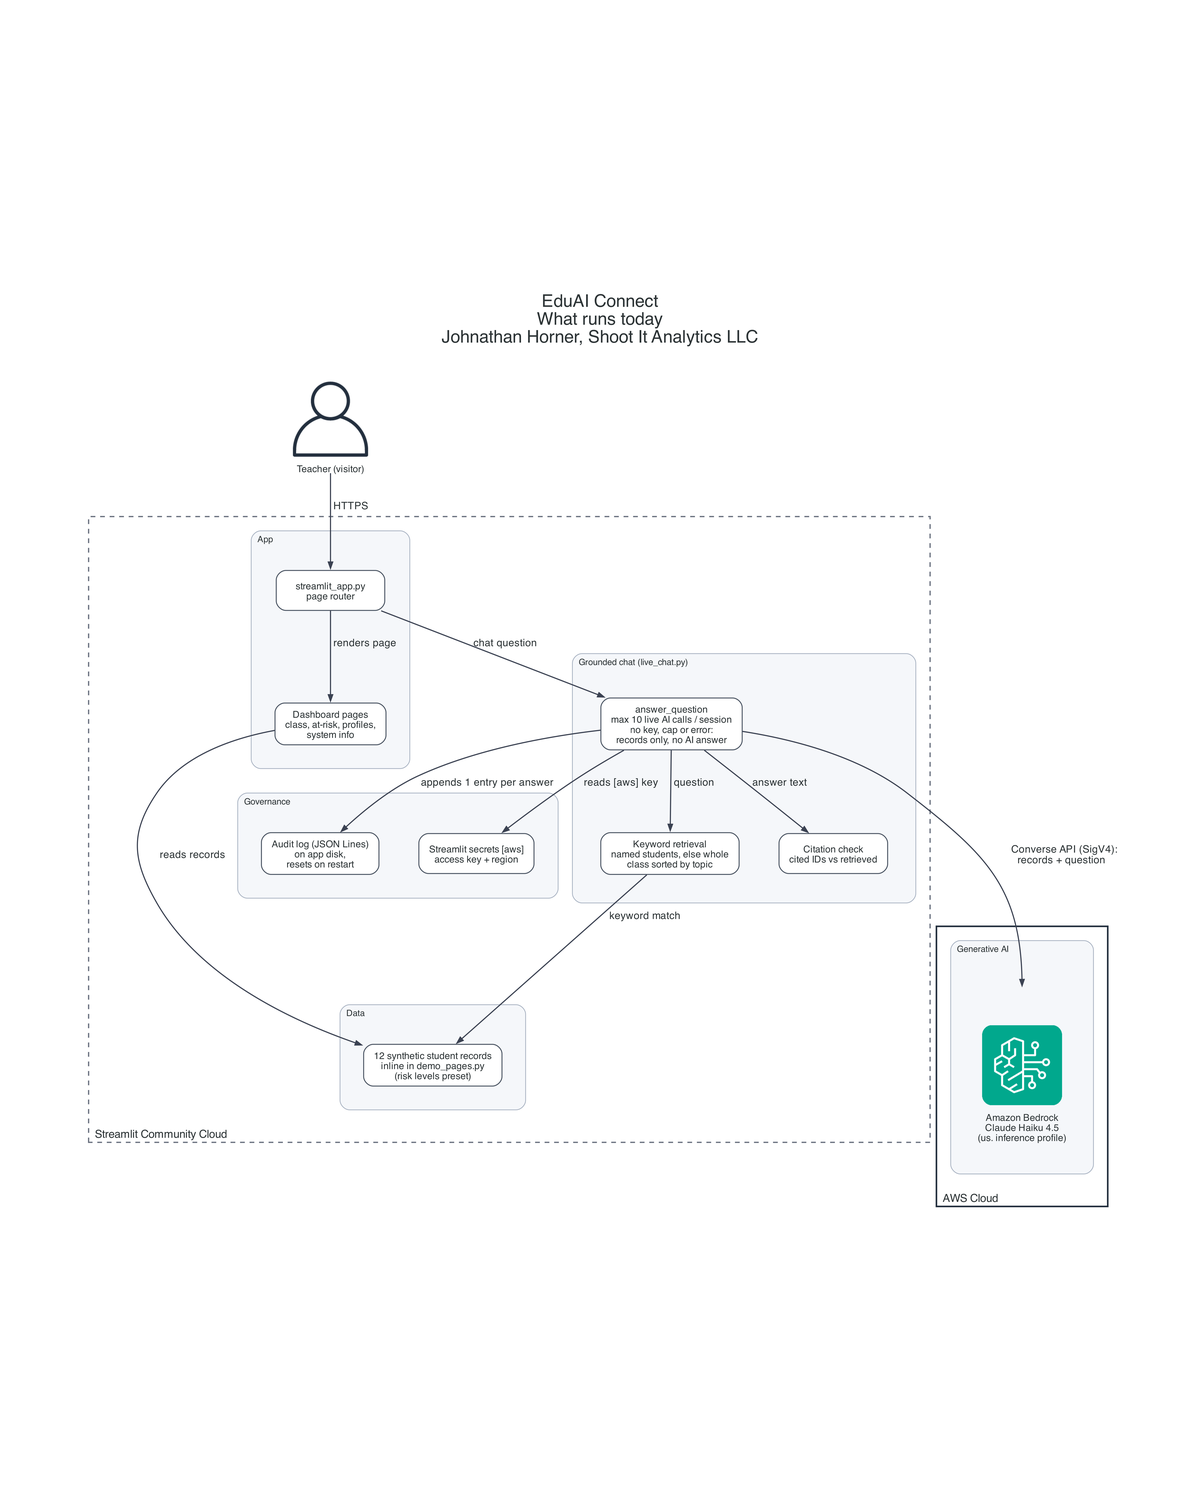
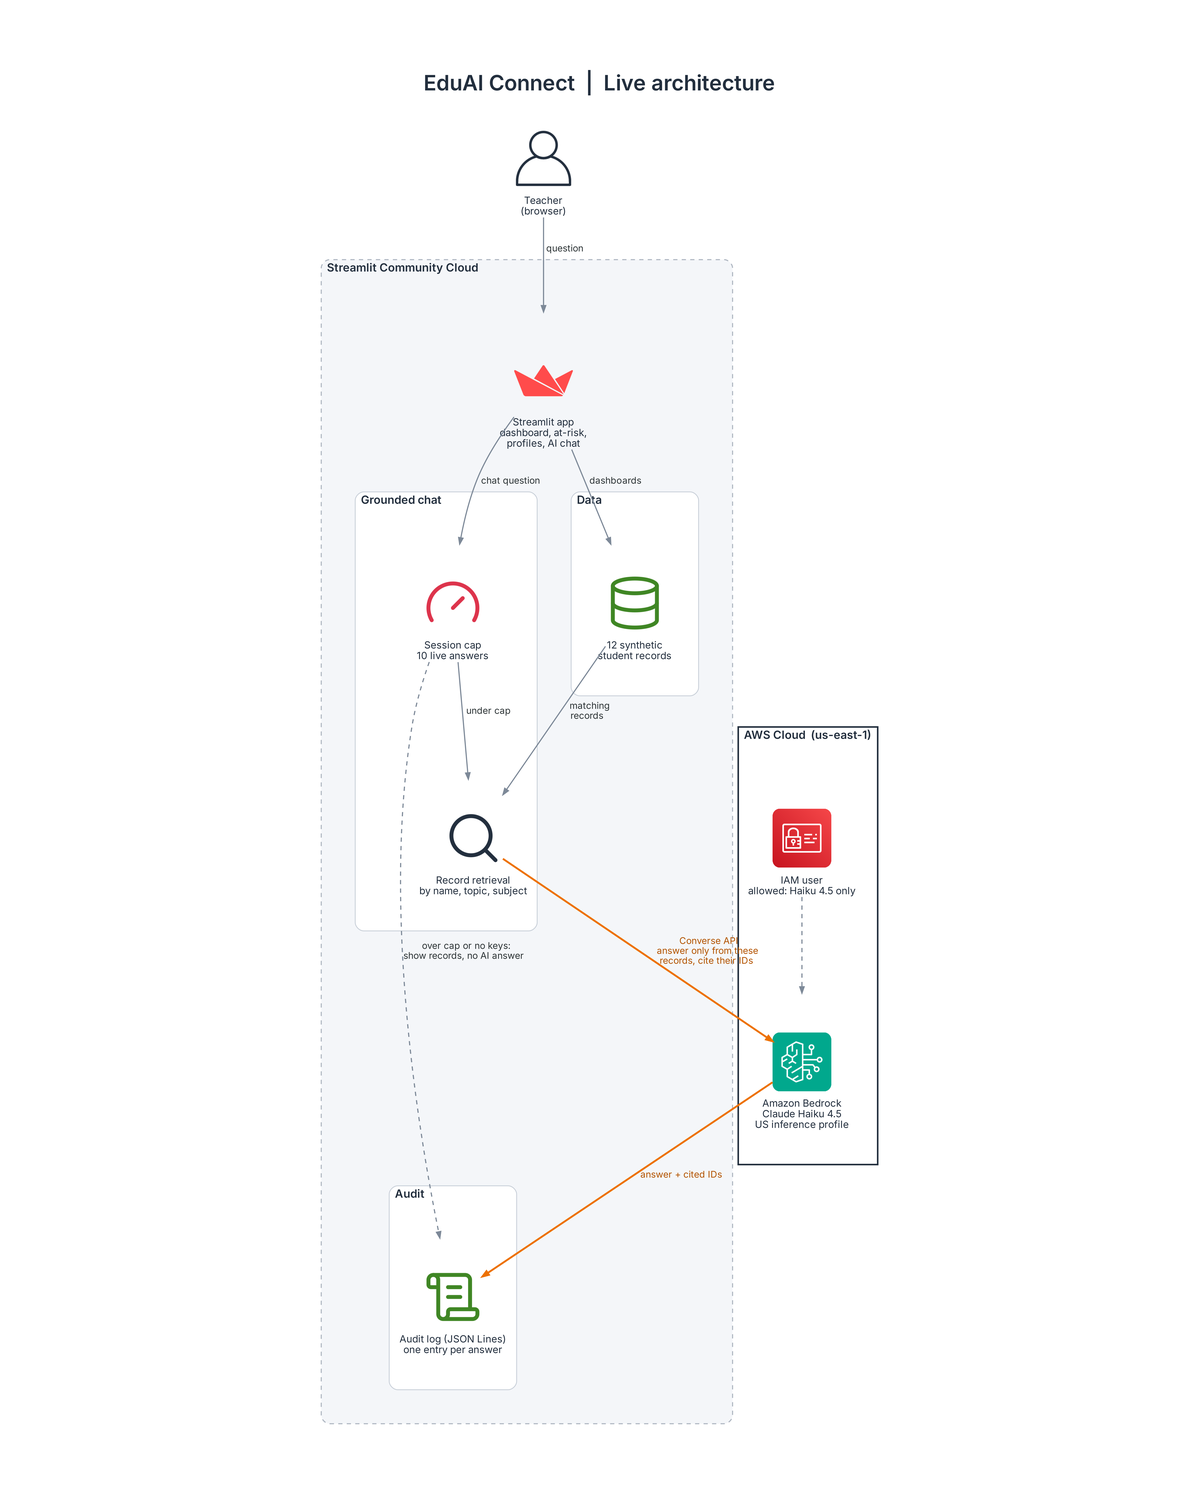
Replace architecture diagrams

diff --git a/docs/architecture/architecture.py b/docs/architecture/architecture.py
@@ -1,42 +1,40 @@
-"""EduAI Connect: what runs today on Streamlit Community Cloud.
+"""EduAI Connect: what runs today (live on Streamlit Community Cloud)."""
+import sys
+from pathlib import Path
 
-Traced from origin/main: streamlit_app/streamlit_app.py (entry point), demo_pages.py, live_chat.py.
-src/ (LangGraph agents, FAISS RAG, FastAPI), mcp_server.py and streamlit_app/app.py are local-only
-and are not imported by the hosted app, so they are not drawn.
-"""
-from diagrams.aws.general import User
+sys.path.insert(0, str(Path(__file__).resolve().parent))
+from diagrams import Diagram
 from diagrams.aws.ml import Bedrock
+from diagrams.aws.security import IAM
+from diagrams.onprem.client import User
 
-from archstyle import arch, aws_cloud, box, e, layer, linkedin, outside
+from style import EDGE, GRAPH, NODE, area, flow, icon, primary, soft
 
-OUT = "architecture"
-with arch("EduAI Connect", "What runs today", OUT):
-    teacher = User("Teacher (visitor)")
-    with outside("Streamlit Community Cloud"):
-        with layer("App"):
-            router = box("streamlit_app.py\npage router")
-            pages = box("Dashboard pages\nclass, at-risk, profiles,\nsystem info")
-        with layer("Grounded chat (live_chat.py)", margin=36):
-            chat = box("answer_question\nmax 10 live AI calls / session\nno key, cap or error:\nrecords only, no AI answer")
-            retr = box("Keyword retrieval\nnamed students, else whole\nclass sorted by topic")
-            cite = box("Citation check\ncited IDs vs retrieved")
-        with layer("Data"):
-            records = box("12 synthetic student records\ninline in demo_pages.py\n(risk levels preset)")
-        with layer("Governance"):
-            audit = box("Audit log (JSON Lines)\non app disk,\nresets on restart")
-            secrets = box("Streamlit secrets [aws]\naccess key + region")
-    with aws_cloud():
-        with layer("Generative AI", margin=40):
-            llm = Bedrock("Amazon Bedrock\nClaude Haiku 4.5\n(us. inference profile)")
+with Diagram("EduAI Connect  |  Live architecture",
+             filename=str(Path(__file__).with_name("architecture")), outformat="png", direction="TB",
+             show=False, graph_attr=GRAPH, node_attr=NODE, edge_attr=EDGE):
+    user = User("Teacher\n(browser)")
 
-    teacher >> e("HTTPS") >> router
-    router >> e("renders page") >> pages
-    router >> e("chat question") >> chat
-    pages >> e("reads records") >> records
-    chat >> e("question") >> retr
-    retr >> e("keyword match") >> records
-    chat >> e("reads [aws] key") >> secrets
-    chat >> e("Converse API (SigV4):\nrecords + question", minlen="2", headport="n") >> llm
-    chat >> e("answer text") >> cite
-    chat >> e("appends 1 entry per answer") >> audit
-linkedin(OUT)
+    with area("Streamlit Community Cloud", "host"):
+        app = icon("streamlit", "Streamlit app\ndashboard, at-risk,\nprofiles, AI chat")
+        with area("Data"):
+            records = icon("database-green", "12 synthetic\nstudent records")
+        with area("Grounded chat"):
+            cap = icon("gauge-red", "Session cap\n10 live answers")
+            retrieve = icon("search-ink", "Record retrieval\nby name, topic, subject")
+        with area("Audit"):
+            audit = icon("scroll-text-green", "Audit log (JSON Lines)\none entry per answer")
+
+    with area("AWS Cloud  (us-east-1)", "aws"):
+        iam = IAM("IAM user\nallowed: Haiku 4.5 only")
+        bedrock = Bedrock("Amazon Bedrock\nClaude Haiku 4.5\nUS inference profile")
+
+    user >> flow("question") >> app
+    app >> flow("dashboards") >> records
+    app >> flow("chat question") >> cap
+    cap >> flow("under cap") >> retrieve
+    records >> flow("matching\nrecords") >> retrieve
+    retrieve >> primary("Converse API\nanswer only from these\nrecords, cite their IDs") >> bedrock
+    iam >> soft() >> bedrock
+    bedrock >> primary("answer + cited IDs") >> audit
+    cap >> soft("over cap or no keys:\nshow records, no AI answer") >> audit

diff --git a/docs/architecture/style.py b/docs/architecture/style.py
@@ -1,0 +1,58 @@
+"""Shared look for every portfolio architecture diagram.
+
+Johnathan Horner, Shoot It Analytics LLC.
+Python diagrams library, official AWS icons, white background, top-down, labeled arrows.
+Brand icons: Simple Icons (CC0). Outline icons: Lucide (ISC).
+"""
+from pathlib import Path
+
+from diagrams import Cluster, Edge
+from diagrams.custom import Custom
+
+ICONS = Path(__file__).parent / "icons"
+FONT = "Inter"
+
+INK = "#232F3E"      # AWS squid ink
+ORANGE = "#ED7100"   # primary AI path
+GREY = "#7D8998"
+RED = "#DD344C"
+
+GRAPH = {
+    "dpi": "300", "bgcolor": "white", "fontname": FONT + " SemiBold", "fontsize": "30",
+    "fontcolor": INK, "labelloc": "t", "pad": "0.6", "nodesep": "1.25", "ranksep": "1.05",
+    "splines": "spline", "newrank": "true", "compound": "true",
+}
+NODE = {"fontname": FONT, "fontsize": "14", "fontcolor": INK, "width": "1.15", "height": "1.15",
+        "imagescale": "true", "labelloc": "b"}
+EDGE = {"fontname": FONT, "fontsize": "13", "fontcolor": "#3B4754", "color": GREY, "penwidth": "1.6",
+        "arrowsize": "0.9"}
+
+
+def area(label, kind="layer"):
+    """Cluster styles: 'host' (outer platform), 'aws' (AWS Cloud boundary), 'ext' (outside vendor), 'layer'."""
+    base = {"fontname": FONT + " SemiBold", "fontsize": "16", "fontcolor": INK, "margin": "48",
+            "labeljust": "l", "style": "rounded"}
+    styles = {
+        "host": {"bgcolor": "#F4F6F9", "pencolor": "#AEB6C1", "style": "rounded,dashed", "penwidth": "1.5"},
+        "aws": {"bgcolor": "#FFFFFF", "pencolor": INK, "penwidth": "2.2", "style": "solid"},
+        "ext": {"bgcolor": "#FAF8FD", "pencolor": "#B9A9D6", "style": "rounded,dashed", "penwidth": "1.5"},
+        "layer": {"bgcolor": "#FFFFFF", "pencolor": "#C9D0D9", "penwidth": "1.2"},
+        "plan": {"bgcolor": "#FFFFFF", "pencolor": GREY, "style": "rounded,dashed", "penwidth": "1.5"},
+    }
+    return Cluster(label, graph_attr={**base, **styles[kind]})
+
+
+def icon(name, label):
+    return Custom(label, str(ICONS / f"{name}.png"))
+
+
+def flow(label="", **kw):
+    return Edge(label=f" {label} " if label else "", **kw)
+
+
+def primary(label=""):
+    return flow(label, color=ORANGE, penwidth="2.6", fontcolor="#B35400")
+
+
+def soft(label=""):
+    return flow(label, style="dashed")

diff --git a/docs/architecture/arrow-verification.md b/docs/architecture/arrow-verification.md
@@ -1,37 +1,15 @@
-# EduAI Connect: arrow verification
+# Arrow check
 
-Code read from `origin/main` (commit 17eff960). Paths are repo-relative.
+Every arrow that touches an AWS service, with the official AWS page that confirms it and its direction. Arrows between non-AWS parts (Streamlit, Gemini, SQLite, scikit-learn and so on) were checked against the code only. Links come from docs.aws.amazon.com only.
 
-## Diagram 1: `docs/architecture/architecture.png` (What runs today)
+## architecture.png (live)
 
-| From | To | Action | Code evidence | AWS doc |
-|---|---|---|---|---|
-| Teacher (visitor) | streamlit_app.py page router | HTTPS page request to the Streamlit Community Cloud app | `streamlit_app/streamlit_app.py:1-4` (entry point docstring), `:119-158` (sidebar radio + router); README.md:11 (live URL) | N/A (not AWS) |
-| streamlit_app.py | Dashboard pages | renders the selected page | `streamlit_app/streamlit_app.py:149-158` calls `page_class_dashboard`, `page_at_risk`, `page_student_profiles`, `page_system_info` from `demo_pages.py` | N/A (not AWS) |
-| streamlit_app.py | answer_question (live_chat.py) | chat question | `streamlit_app/streamlit_app.py:155-156` -> `demo_pages.py:344-378` (`page_ai_chat` calls `answer_question(question, STUDENTS, st.session_state, settings=settings)` at :378) | N/A (not AWS) |
-| Dashboard pages | 12 synthetic student records | reads records | `streamlit_app/demo_pages.py:26-99` (`STUDENTS` list, 12 dicts with preset `risk`/`risk_score`), `:117-133` (`_students_df` iterates `STUDENTS`) | N/A (not AWS) |
-| answer_question | Keyword retrieval | question | `streamlit_app/live_chat.py:197` (`records, chosen_by = retrieve(question, students)`) | N/A (not AWS) |
-| Keyword retrieval | 12 synthetic student records | keyword match (named students, else whole class sorted by topic/subject, optional grade filter) | `streamlit_app/live_chat.py:76-98`; records passed from `demo_pages.py:378` | N/A (not AWS) |
-| answer_question | Streamlit secrets [aws] | reads access key ID, secret key, region (never logged or displayed) | `streamlit_app/live_chat.py:120-135` (`st.secrets["aws"]`, `access_key_id`, `secret_access_key`, `region`; env opt-in `EDUAI_ALLOW_DEFAULT_CREDENTIALS=1` for local only) | N/A (not AWS; Streamlit Cloud secrets store) |
-| answer_question | Amazon Bedrock, Claude Haiku 4.5 (us. inference profile) | boto3 `bedrock-runtime` client calls `converse(modelId="us.anthropic.claude-haiku-4-5-20251001-v1:0", system, messages, inferenceConfig={maxTokens:400, temperature:0})`; request is SigV4-signed by boto3 with the [aws] key; retrieved records + question are sent | `streamlit_app/live_chat.py:35` (MODEL_ID), `:39` (MAX_OUTPUT_TOKENS=400), `:138-141` (`boto3.client("bedrock-runtime", **settings)`), `:144-150` (`client.converse(...)`), `:108-110` (prompt = records + question), `:210` (call site) | https://docs.aws.amazon.com/bedrock/latest/APIReference/API_runtime_Converse.html (Converse "Sends messages to the specified Amazon Bedrock model"; `POST /model/{modelId}/converse`; modelId may be an inference profile ID; requires `bedrock:InvokeModel`). https://docs.aws.amazon.com/bedrock/latest/userguide/cross-region-inference.html (geographic profile: "Routed within the geography", e.g. us-east-1, us-east-2, us-west-2 for a US profile) |
-| answer_question | Citation check | answer text: extracts `S####` IDs and flags any ID not in the retrieved set | `streamlit_app/live_chat.py:113-115` (`cited_ids`), `:213-218` (`citations_valid`); shown as warning at `demo_pages.py:333-334` | N/A (not AWS) |
-| answer_question | Audit log (JSON Lines) | appends one entry per answer (live, demo, cap or error) | `streamlit_app/live_chat.py:43` (default path `logs/chat_audit.jsonl`), `:179-183` (`write_audit` append), `:225-249` (entry fields; also kept in `st.session_state["chat_audit"]`) | N/A (not AWS) |
+| From | To | Action | AWS doc |
+|---|---|---|---|
+| Record retrieval (Streamlit app) | Amazon Bedrock, Claude Haiku 4.5 | Converse API, us. inference profile | https://docs.aws.amazon.com/bedrock/latest/APIReference/API_runtime_Converse.html |
+| IAM user | Amazon Bedrock | Authorizes the call (Converse needs bedrock:InvokeModel) | https://docs.aws.amazon.com/bedrock/latest/APIReference/API_runtime_InvokeModel.html |
+| Amazon Bedrock | Audit log | Converse response returns the answer, which the app logs | https://docs.aws.amazon.com/bedrock/latest/APIReference/API_runtime_Converse.html |
 
-Fallback (inside the answer_question node label, not a separate arrow): no credentials, session cap reached (10), or any exception from the call -> mode "demo"/"error", `answer=None`, and the page shows "No AI answer was generated" plus the matching records (`live_chat.py:202-223`, `demo_pages.py:336-341`). On 2026-11-16 the live app showed "the live AI call failed (InvalidSignatureException)" (per the task brief; the reason string is built at `live_chat.py:220-222`), which is this path.
+## UNVERIFIED
 
-## Diagram 2: `docs/architecture/production-design.png` (Production design, not deployed)
-
-All from `terraform/main.py` (an AWS CDK v2 Python app despite the folder name). Read-only AWS checks on 2026-11-16 (us-east-1): no `EduAIStack` CloudFormation stack (describe-stacks: "does not exist"; list-stacks shows no EduAI stack in any status), no matching Lambda function, no KMS alias, no `/eduai` log group, no EventBridge rule with prefix `EduAI`, the bucket name in the code returns 404 on head-bucket, and no Bedrock guardrails exist.
-
-| From | To | Action | Code evidence | AWS doc |
-|---|---|---|---|---|
-| Canvas LMS (external, producer not defined) | EventBridge rule (event pattern) | custom events with `source=eduai.canvas`, `detail-type` GradeUpdated / SubmissionCreated (a producer would call PutEvents; none is defined in the repo) | `terraform/main.py:112-119` (event pattern) | https://docs.aws.amazon.com/eventbridge/latest/userguide/eb-putevents.html (custom apps send events with Source and DetailType via PutEvents); https://docs.aws.amazon.com/eventbridge/latest/userguide/eb-event-patterns.html ("If the event pattern matches the event, EventBridge sends the event to the target") |
-| EventBridge rule (cron) | Ingestion Lambda | invokes on schedule, cron minute 0 hour 11 Mon-Fri (UTC) | `terraform/main.py:98-107` | https://docs.aws.amazon.com/eventbridge/latest/userguide/eb-create-rule-schedule.html ("All scheduled events use UTC+0 time zone"; scheduled rule targets include AWS services); https://docs.aws.amazon.com/eventbridge/latest/userguide/eb-targets.html (target list includes "Lambda function (ASYNC)") |
-| EventBridge rule (event pattern) | Ingestion Lambda | invokes on match | `terraform/main.py:120` (`add_target(targets.LambdaFunction(ingestion_lambda))`) | https://docs.aws.amazon.com/eventbridge/latest/userguide/eb-targets.html ("A target is a resource or endpoint that EventBridge sends an event to when the event matches the event pattern"; "Lambda function (ASYNC)") |
-| Ingestion Lambda | IAM execution role | assumes the role at invocation (trust: lambda.amazonaws.com) | `terraform/main.py:58-62` (role, `ServicePrincipal("lambda.amazonaws.com")`), `:85` (`role=lambda_role`) | https://docs.aws.amazon.com/lambda/latest/dg/lambda-intro-execution-role.html ("Lambda automatically assumes your execution role when you invoke your function"; trust policy must name `lambda.amazonaws.com`) |
-| Ingestion Lambda | CloudWatch log group (1-year retention) | writes logs | `terraform/main.py:48-53` (log group, `RetentionDays.ONE_YEAR`), `:75` (`log_group.grant_write(lambda_role)`), `:92` (`log_group=log_group`) | https://docs.aws.amazon.com/lambda/latest/dg/monitoring-cloudwatchlogs.html (Lambda sends invocation logs to CloudWatch Logs when the execution role has `logs:CreateLogStream`/`logs:PutLogEvents`; a different log group can be configured) |
-| Ingestion Lambda | S3 student data bucket | GetObject (read-only grant; no write grant exists) | `terraform/main.py:65` (`student_data_bucket.grant_read(lambda_role)`), `:89` (bucket name passed as env var) | https://docs.aws.amazon.com/AmazonS3/latest/API/API_GetObject.html ("Retrieves an object from Amazon S3") |
-| S3 student data bucket | KMS key | encrypts objects (SSE-KMS with the stack's customer managed key; reads need kms:Decrypt) | `terraform/main.py:22-28` (key, `enable_key_rotation=True`), `:33-43` (`BucketEncryption.KMS`, `encryption_key=encryption_key`, `BLOCK_ALL`, `versioned=True`, `enforce_ssl=True`) | https://docs.aws.amazon.com/AmazonS3/latest/userguide/UsingKMSEncryption.html ("Amazon S3 uses server-side encryption with AWS KMS (SSE-KMS) to encrypt your S3 object data"; "To download an object encrypted with an AWS KMS key, you need kms:Decrypt permissions for the key") |
-| Ingestion Lambda | Amazon Bedrock (Claude 3 Sonnet, Titan Embed) | InvokeModel is permitted by the role policy only; no handler code exists to call it (dashed) | `terraform/main.py:68-72` (`bedrock:InvokeModel` on `anthropic.claude-3-sonnet*` and `amazon.titan-embed*` foundation models in us-east-1); `:83-84` handler `handler.lambda_handler` from `src/etl`, but `src/etl/handler.py` does not exist on origin/main (only `src/etl/generate_data.py`) | https://docs.aws.amazon.com/bedrock/latest/APIReference/API_runtime_InvokeModel.html ("Invokes the specified Amazon Bedrock model to run inference"; "requires permission for the bedrock:InvokeModel action") |
-
-No arrow is UNVERIFIED. Caveat on diagram 2: the AWS docs confirm what each wiring would do if deployed; nothing in it has ever been deployed (checks above), and the stack could not work as written (missing handler file, read-only bucket grant for an "ingestion" function).
+None.
